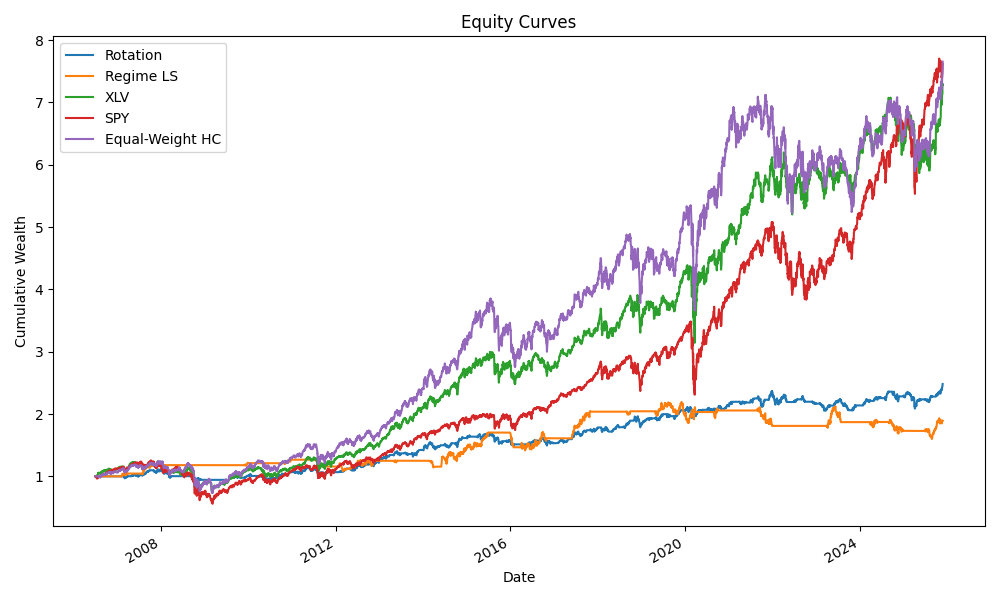
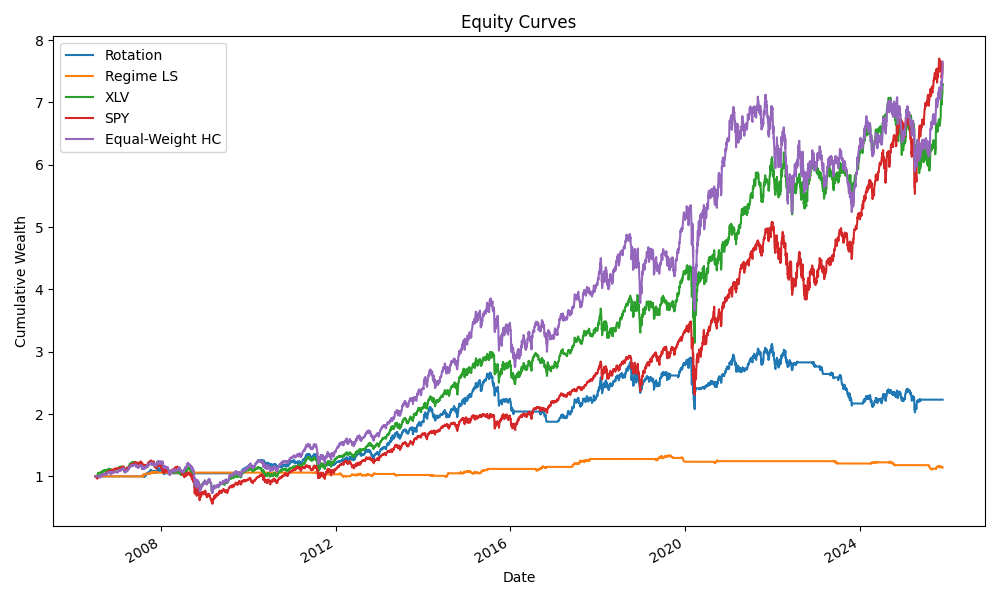
update

Changed region(s): [[0.124, 0.57, 0.961, 0.81], [0.496, 0.66, 0.527, 0.69], [0.465, 0.63, 0.496, 0.66]]

diff --git a/results/make_results.py b/results/make_results.py
@@ -10,17 +10,38 @@ import pandas as pd
 from src.data.etf_loader import load_clean_prices
 from src.backtest.engine import run_backtest
 from run_strategies import (
-    run_regime_strategy,
     run_rotation_strategy,
     summarize,
 )
+from src.data.macro_loader import load_tnx_10y, load_vix
+from src.signals.regime import compute_monthly_features, classify_regime
+from src.signals.ls_biotech_pharma import compute_spread_momentum, build_monthly_ls_weights
+from src.portfolio.vol_target import estimate_rolling_vol
 
 
 def main() -> None:
     results_dir = Path(__file__).resolve().parent
     prices = load_clean_prices().dropna(how="any")
 
-    regime_bt, _ = run_regime_strategy(prices, tc_bps=10.0, start=None, end=None)
+    # Build regime LS with current macro and spread momentum/vol
+    price_slice = prices[["XBI", "XPH", "SPY"]].dropna()
+    tnx = load_tnx_10y(start=price_slice.index.min().strftime("%Y-%m-%d"), end=price_slice.index.max().strftime("%Y-%m-%d")).reindex(price_slice.index).ffill()
+    vix = load_vix(start=price_slice.index.min().strftime("%Y-%m-%d"), end=price_slice.index.max().strftime("%Y-%m-%d")).reindex(price_slice.index).ffill()
+    features = compute_monthly_features(tnx, price_slice["SPY"], vix)
+    regimes = classify_regime(features)
+    spread_mom = compute_spread_momentum(price_slice[["XBI", "XPH"]], lookback_months=6)
+    vol_df = estimate_rolling_vol(price_slice[["XBI", "XPH"]].pct_change().fillna(0.0))
+    ls_weights = build_monthly_ls_weights(
+        regime_labels=regimes,
+        prices=price_slice[["XBI", "XPH"]],
+        vol_df=vol_df,
+        spread_momentum=spread_mom,
+        target_gross_exposure=1.0,
+        spread_mom_threshold=0.0,
+    )
+    from src.backtest.engine import run_backtest
+    regime_bt = run_backtest(price_slice[["XBI", "XPH"]], ls_weights, transaction_cost_bps=10.0)
+
     rotation_bt = run_rotation_strategy(prices, tc_bps=10.0)
 
     summaries = [

diff --git a/src/signals/rotation_signals.py b/src/signals/rotation_signals.py
@@ -81,7 +81,10 @@ def build_monthly_rotation_weights(
             continue
 
         winners = eligible_scores.nlargest(min(top_k, len(eligible_scores))).index.tolist()
-        current_vols = vol_df.loc[date, winners].replace(0.0, pd.NA).dropna()
+        if date in vol_df.index:
+            current_vols = vol_df.loc[date, winners].replace(0.0, pd.NA).dropna()
+        else:
+            current_vols = vol_df.loc[:date, winners].iloc[-1].replace(0.0, pd.NA).dropna()
         if current_vols.empty:
             monthly_weights.append(pd.Series(weights, name=date))
             continue
